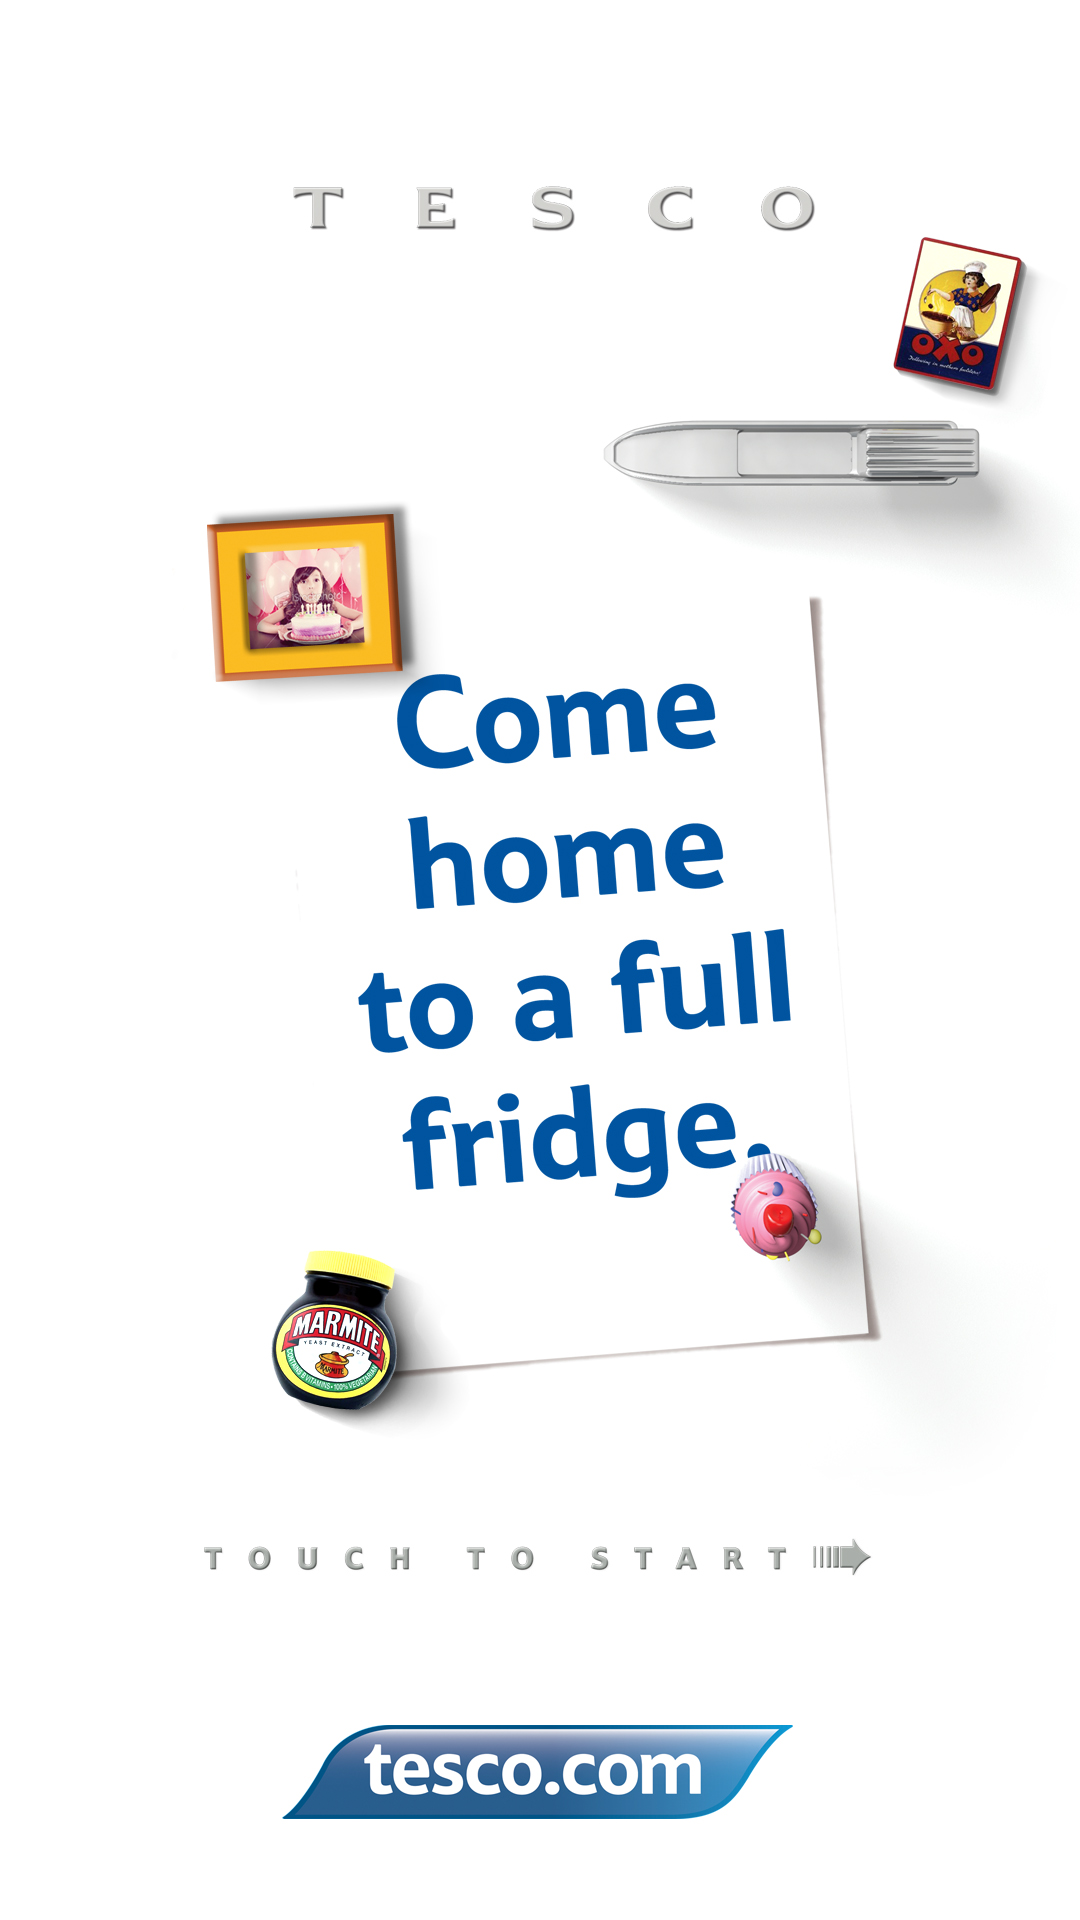
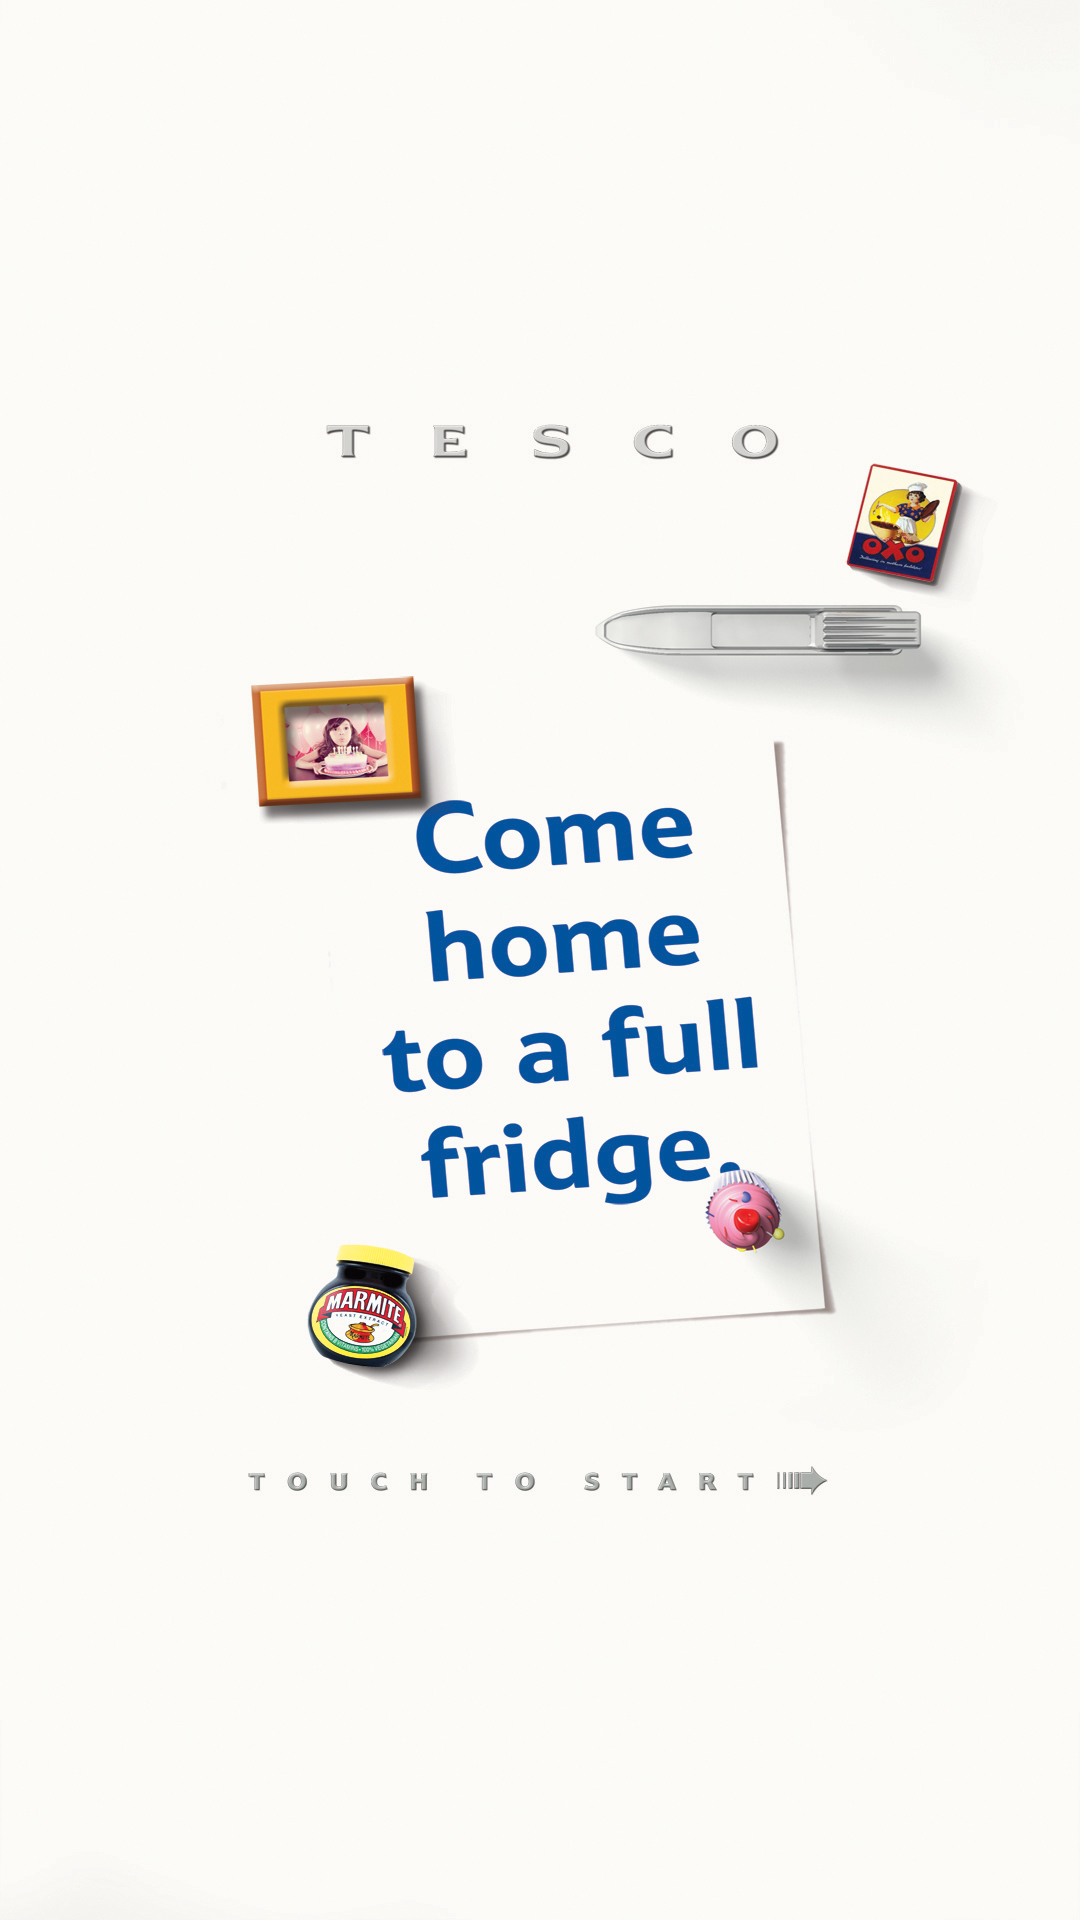
hand comes in

diff --git a/css/dragdealer.css b/css/dragdealer.css
@@ -10,6 +10,7 @@ body {
 	padding: 0px;
 	margin: 0px;
 	cursor: none;
+	overflow: hidden;
 }
 
 #finishedShopping {
@@ -30,9 +31,17 @@ body {
 	display: none;
 }
 
+#handPhone {
+	background: url('assets/handphone.png') no-repeat 0 0;
+	width: 768px;
+	height: 1283px;
+	position: absolute;
+	bottom: -1283px;
+	left: 180px;
+}
+
 #previousButton {
-	background: url('assets/left-arrow.png') no-repeat 0 0 ;
-	
+	background: url('assets/left-arrow.png') no-repeat 0 0;
 	width: 75px;
 	height: 100px;
 	position: absolute;
@@ -41,7 +50,7 @@ body {
 }
 
 #nextButton {
-	background: url('assets/right-arrow.png') no-repeat 0 0 ;
+	background: url('assets/right-arrow.png') no-repeat 0 0;
 	width: 75px;
 	height: 100px;
 	position: absolute;

diff --git a/js/script.js b/js/script.js
@@ -67,8 +67,8 @@ function showHand() {
 	 $('#handPhone').animate({
 		    opacity: 1,
 		    bottom: '0',
-		    left:'840'
-		  }, 2000, function() {
+		    left:'80'
+		  }, 3000, function() {
 		    // Animation complete.
 			  
 		  });
@@ -77,10 +77,10 @@ function showHand() {
 function hideHand() {
 	$('#handPhone').animate({
 	    opacity: 0,
-	    bottom: '-200',
-	    left:'880'
+	    bottom: '-1283',
+	    left:'120'
 	  
-	  }, 2000, function() {
+	  }, 3000, function() {
 	    // Animation complete.
 		  
 	  });
@@ -110,7 +110,7 @@ $(document).ready(function(){
 
 	
 		 showHand();
-		 setTimeout('hideHand()',5000);
+		 setTimeout('hideHand()',15000);
 
 		
 		    

diff --git a/index.php b/index.php
@@ -76,8 +76,8 @@
 	</div>
 
 
-	<div id="handPhone"
-		style=" width: 200px; height: 200px; position: absolute; bottom: -200px; left: 880px;">
+	<div id="handPhone">
+	&nbsp;
 
 	</div>
 
